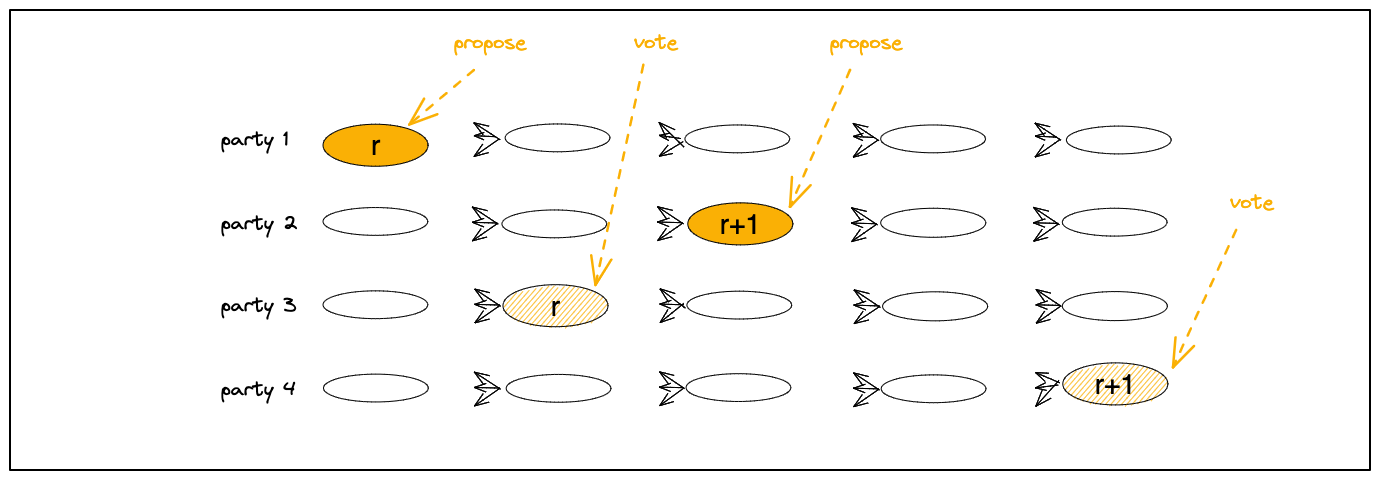
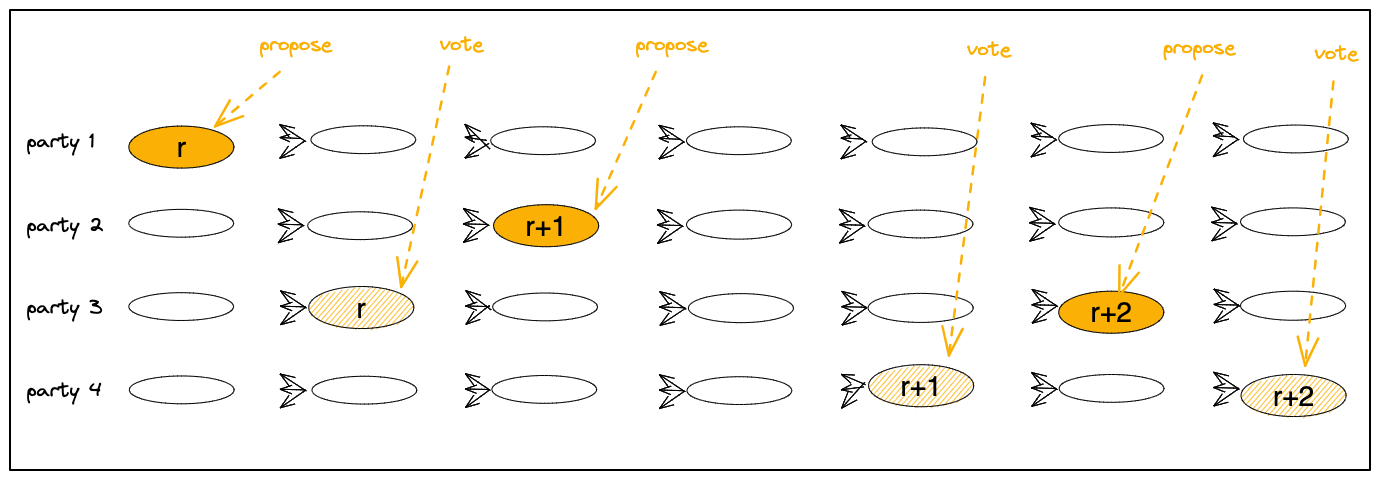
moved to F+1 to commit

diff --git a/_drafts/DAG-BFT.md b/_drafts/DAG-BFT.md
@@ -310,15 +310,15 @@ The DAG meanwhile fills with useful messages that may become committed at the ne
 This feature is demonstrated in the scenario below at `view(r+1)`.
 The view has party 2 as `leader(r+1)` proposing `proposal(r+1)`, but
 `vote(r+1)` messages do not arrive at the layer immediately following the proposal, only later.
-Until `proposal(r+1)` has the necessary quorum of F+1 of votes and becomes committed, 
-the DAG fills with messages that may become committed at the next view.
+No worries! Until `proposal(r+1)` has the necessary quorum of F+1 of votes and becomes committed, 
+the DAG keeps filling with messages that may become committed at the next view, e.g., `view(r+1)`.
 
   <span id="Figure-Commit"></span>
 
   <img src="/images/FIN/propose-commit.png" width="750"  class="center"  />
 
   **_Figure 3:_** 
-  _Proposals and votes in `view(r)` and `view(r+1)`, both committed._
+  _Proposals, votes, and commits in `view(r)`, `view(r+1)`, `view(r+2)`._
 
 **Scenario with a faulty leader.**
 If the leader of a view is faulty or disconnected, parties will eventually time out and set their meta-information to minus the view-number, e.g., `-(r+1)` for a failure of `view(r+1)` . 
